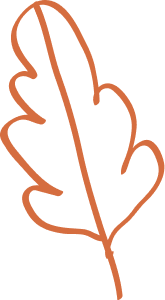
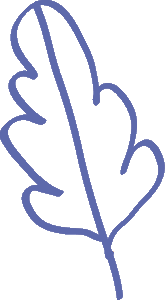
fix: delete not use elements and darktherme for decorations

Changed region(s): [[0.0, 0.0, 1.0, 1.0]]

diff --git a/index.html b/index.html
@@ -56,8 +56,8 @@
                     <i class="ri-close-line"></i>
                 </div>
 
-                <img src="assets/img/leaf-branch-4.png" alt="nav image" class="nav__img-1">
-                <img src="assets/img/leaf-branch-3.png" alt="nav image" class="nav__img-2">
+                <img src="assets/img/leaf-branch-4.png" alt="nav image" class="nav__img-1" id="leaf-4-1">
+                <img src="assets/img/leaf-branch-3.png" alt="nav image" class="nav__img-2" id="leaf-3-1">
             </div>
 
             <div class="nav__buttons">
@@ -112,8 +112,8 @@
                 </div>
             </div>
 -->
-            <img src="assets/img/leaf-branch-2.png" alt="" home image class="home__leaf-1">
-            <img src="assets/img/leaf-branch-4.png" alt="" home image class="home__leaf-2">
+            <img src="assets/img/leaf-branch-2.png" alt="home image" class="home__leaf-1" id="leaf-2-1">
+            <img src="assets/img/leaf-branch-4.png" alt="home image" class="home__leaf-2" id="leaf-4-2">
         </section>
 
         <!--==================== ABOUT ====================-->
@@ -137,7 +137,7 @@
                 <img src="assets/img/ChatGPT_logo.svg.png" alt="about image" class="about__img">
             </div>
 
-            <img src="assets/img/leaf-branch-1.png" alt="about image" class="about__leaf">
+            <img src="assets/img/leaf-branch-1.png" alt="about image" class="about__leaf" id="leaf-1">
         </section>
 
         <!--==================== PRICING ====================-->
@@ -356,8 +356,8 @@
                 <img src="assets/img/img-contactanos.png" alt="contact image" class="contact__img">
             </div>
 
-            <img src="assets/img/leaf-branch-2.png" alt="contact image" class="contact__leaf-1">
-            <img src="assets/img/leaf-branch-3.png" alt="contact image" class="contact__leaf-2">
+            <img src="assets/img/leaf-branch-2.png" alt="contact image" class="contact__leaf-1" id="leaf-2-2">
+            <img src="assets/img/leaf-branch-3.png" alt="contact image" class="contact__leaf-2" id="leaf-3-2">
         </section>
 
     </main>
@@ -367,7 +367,7 @@
         <div class="footer__container container grid">
             <div>
                 <a href="#" class="footer__logo">
-                    <img src="assets/img/logo_horizontal_1.png" alt="logo image">
+                    <img src="assets/img/logo_horizontal_1.png" alt="logo image"  id="logoFooter">
                 </a>
 
                 <p class="footer__description">
@@ -403,10 +403,10 @@
                             <a href="#contact" class="footer__link">Contacto</a>
                         </li>
                         <li>
-                            <a href="#" class="footer__link">Preguntas frecuentes</a>
+                            <a href="#" style="cursor: default;" class="footer__link">Teléfono</a>
                         </li>
                         <li>
-                            <a href="#" class="footer__link">Teléfono</a>
+                            <a href="https://wa.link/a3ejgf" class="footer__link">+51 994 283 802</a>
                         </li>
 
                     </ul>
@@ -422,7 +422,7 @@
                         </li>
 
                         <li class="footer__information">
-                            24/7
+                            Disponibles 24/7
                         </li>
                     </ul>
                 </div>
@@ -448,7 +448,7 @@
 
             <img src="assets/img/spring-onion.png" alt="footer image" class="footer__onion">
             <img src="assets/img/spinach-leaf.png" alt="footer image" class="footer__spinach">
-            <img src="assets/img/leaf-branch-4.png" alt="footer image" class="footer__leaf">
+            <img src="assets/img/leaf-branch-4.png" alt="footer image" class="footer__leaf" id="leaf-4-3">
         </div>
 
         <div class="footer__info container">

diff --git a/assets/css/styles.css b/assets/css/styles.css
@@ -286,7 +286,7 @@ body.dark-theme {
 .nav__img-1,
 .nav__img-2 {
   position: absolute;
-  opacity: .2;
+  opacity: .4;
 }
 
 .nav__img-1 {
@@ -365,7 +365,7 @@ body.dark-theme {
 .home__leaf-1,
 .home__leaf-2 {
   position: absolute;
-  opacity: .2;
+  opacity: .4;
 }
 
 .home__leaf-1 {
@@ -434,7 +434,7 @@ body.dark-theme {
 
 .about__leaf {
   width: 100px;
-  opacity: .2;
+  opacity: .4;
   position: absolute;
   right: -1.5rem;
   bottom: 11rem;
@@ -689,8 +689,8 @@ hr {
 }
 
 .testimonial .image {
-  height: 150px;
-  width: 150px;
+  height: 100px;
+  width: 100px;
   object-fit: cover;
   border-radius: 50%;
 }
@@ -832,7 +832,7 @@ hr {
 .contact__leaf-1,
 .contact__leaf-2 {
   position: absolute;
-  opacity: .2;
+  opacity: .4;
 }
 
 .contact__leaf-1 {
@@ -951,7 +951,7 @@ hr {
 
 .footer__leaf {
   width: 100px;
-  opacity: .2;
+  opacity: .4;
   position: absolute;
   bottom: 6rem;
   right: -2rem;
@@ -1310,6 +1310,21 @@ hr {
   .container {
     margin-inline: auto;
   }
+
+  .home__leaf-1 {
+    width: 140px;
+    top: 4rem;
+    left: -6rem;
+  }
+
+  .home__leaf-2 {
+    width: 150px;
+    right: -6rem;
+  }
+
+  .footer__leaf {
+    right: -6rem;
+  }
 }
 
 @media screen and (min-width: 1280px) {
@@ -1317,11 +1332,12 @@ hr {
   .home__leaf-1 {
     width: 150px;
     top: 5rem;
+    left: -12rem;
   }
 
   .home__leaf-2 {
     width: 180px;
-    right: -4rem;
+    right: -12rem;
   }
 
   .about__leaf {
@@ -1348,7 +1364,46 @@ hr {
   }
 }
 
+@media screen and (min-width: 1480px) {
+  .home__leaf-1 {
+    width: 150px;
+    top: 5rem;
+    left: -15rem;
+  }
 
+  .home__leaf-2 {
+    width: 180px;
+    right: -15rem;
+  }
+
+}
+@media screen and (min-width: 1540px) {
+  .home__leaf-1 {
+    width: 150px;
+    top: 5rem;
+    left: -18rem;
+  }
+
+  .home__leaf-2 {
+    width: 180px;
+    right: -18rem;
+  }
+
+}
+
+@media screen and (min-width: 1680px) {
+  .home__leaf-1 {
+    width: 180px;
+    top: 5rem;
+    left: -28rem;
+  }
+
+  .home__leaf-2 {
+    width: 200px;
+    right: -28rem;
+  }
+
+}
 /* CHATBOT */
 .chatbot {
   position: relative;

diff --git a/assets/js/main.js b/assets/js/main.js
@@ -78,7 +78,18 @@ const darkTheme = 'dark-theme'
 const iconTheme = 'ri-sun-line'
 
 const logoHeader = document.getElementById('logo');
-const logoHome = document.getElementById('logoHome');
+const logoFooter = document.getElementById('logoFooter');
+
+//Leaf images
+
+const leaf1 = document.getElementById('leaf-1');
+const leaf21 = document.getElementById('leaf-2-1');
+const leaf22 = document.getElementById('leaf-2-2');
+const leaf31 = document.getElementById('leaf-3-1');
+const leaf32 = document.getElementById('leaf-3-2');
+const leaf41 = document.getElementById('leaf-4-1');
+const leaf42 = document.getElementById('leaf-4-2');
+const leaf43 = document.getElementById('leaf-4-3');
 
 // Previously selected topic (if user selected)
 const selectedTheme = localStorage.getItem('selected-theme')
@@ -105,7 +116,15 @@ themeButton.addEventListener('click', () => {
     localStorage.setItem('selected-icon', getCurrentIcon())
 
     logoHeader.src = [getCurrentTheme() === 'dark' ? "assets/img/mathia_horizontal_darkmode.png" : "assets/img/mathia_horizontal.png"];
-    logoHome.src = [getCurrentTheme() === 'dark' ? "assets/img/logo_solo_2.png" : "assets/img/logo_solo_1.png"];
+    logoFooter.src = logoHeader.src;
+    leaf1.src = [getCurrentTheme() === 'dark' ? "assets/img/dark-leaf-branch-1.png" : "assets/img/leaf-branch-1.png"];
+    leaf21.src = [getCurrentTheme() === 'dark' ? "assets/img/dark-leaf-branch-2.png" : "assets/img/leaf-branch-2.png"];
+    leaf22.src = leaf21.src;
+    leaf31.src = [getCurrentTheme() === 'dark' ? "assets/img/dark-leaf-branch-3.png" : "assets/img/leaf-branch-3.png"];
+    leaf32.src = leaf31.src;
+    leaf41.src = [getCurrentTheme() === 'dark' ? "assets/img/dark-leaf-branch-4.png" : "assets/img/leaf-branch-4.png"];
+    leaf42.src = leaf41.src;
+    leaf43.src = leaf41.src;
 })
 
 /*=============== SCROLL REVEAL ANIMATION ===============*/
